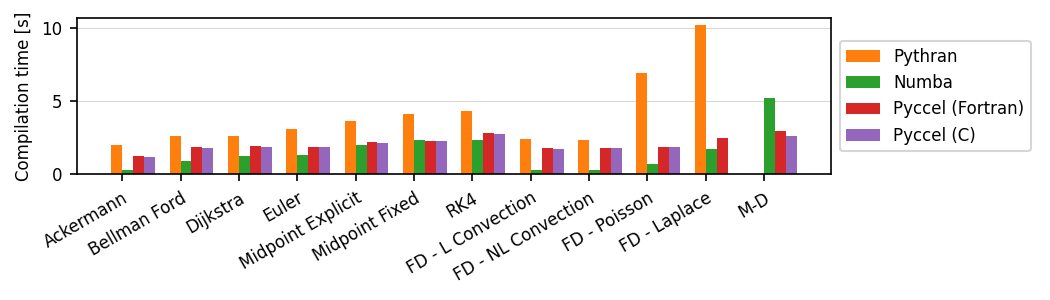
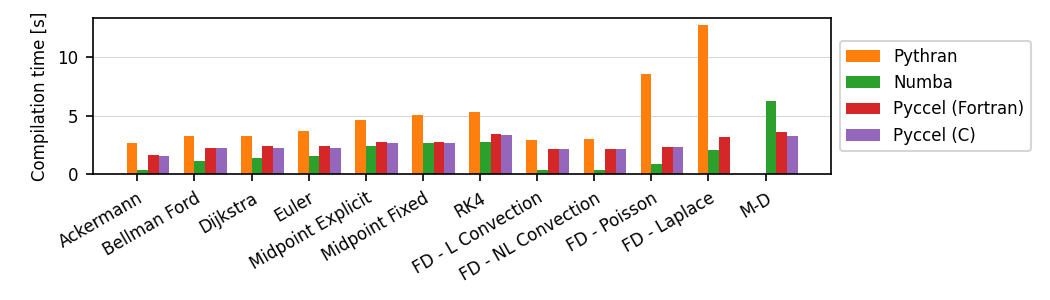
Update performance comparison

Changed region(s): [[0.0, 0.03, 0.7924, 0.6], [0.0305, 0.63, 0.7314, 0.93]]

diff --git a/version_specific_results/devel_performance_310.md b/version_specific_results/devel_performance_310.md
@@ -1,32 +1,32 @@
-### Performance Comparison (as of Tue Dec  6 23:59:49 UTC 2022)
+### Performance Comparison (as of Thu Dec  8 10:20:12 UTC 2022)
 ## Compilation time
 Algorithm                 | python                    | pythran                   | numba                     | pyccel                    | pyccel_c                 
 ------------------------- | ------------------------- | ------------------------- | ------------------------- | ------------------------- | -------------------------
-Ackermann                 | -                         | 2.02                      | 0.33                      | 1.26                      | 1.21                     
-Bellman Ford              | -                         | 2.64                      | 0.94                      | 1.89                      | 1.81                     
-Dijkstra                  | -                         | 2.63                      | 1.25                      | 1.97                      | 1.87                     
-Euler                     | -                         | 3.09                      | 1.30                      | 1.89                      | 1.84                     
-Midpoint Explicit         | -                         | 3.67                      | 1.99                      | 2.22                      | 2.17                     
-Midpoint Fixed            | -                         | 4.15                      | 2.33                      | 2.31                      | 2.26                     
-RK4                       | -                         | 4.32                      | 2.37                      | 2.85                      | 2.74                     
-FD - L Convection         | -                         | 2.40                      | 0.31                      | 1.78                      | 1.77                     
-FD - NL Convection        | -                         | 2.37                      | 0.31                      | 1.79                      | 1.79                     
-FD - Poisson              | -                         | 6.93                      | 0.74                      | 1.87                      | 1.86                     
-FD - Laplace              | -                         | 10.17                     | 1.72                      | 2.49                      | -                        
-M-D                       | -                         | -                         | 5.23                      | 2.94                      | 2.62                     
+Ackermann                 | -                         | 2.69                      | 0.42                      | 1.68                      | 1.53                     
+Bellman Ford              | -                         | 3.28                      | 1.13                      | 2.29                      | 2.25                     
+Dijkstra                  | -                         | 3.25                      | 1.44                      | 2.42                      | 2.26                     
+Euler                     | -                         | 3.73                      | 1.58                      | 2.43                      | 2.27                     
+Midpoint Explicit         | -                         | 4.61                      | 2.44                      | 2.76                      | 2.67                     
+Midpoint Fixed            | -                         | 5.07                      | 2.68                      | 2.78                      | 2.72                     
+RK4                       | -                         | 5.36                      | 2.78                      | 3.46                      | 3.32                     
+FD - L Convection         | -                         | 2.96                      | 0.37                      | 2.20                      | 2.18                     
+FD - NL Convection        | -                         | 2.98                      | 0.40                      | 2.21                      | 2.18                     
+FD - Poisson              | -                         | 8.54                      | 0.90                      | 2.34                      | 2.37                     
+FD - Laplace              | -                         | 12.69                     | 2.08                      | 3.21                      | -                        
+M-D                       | -                         | -                         | 6.24                      | 3.61                      | 3.25                     
 
 ## Execution time
 Algorithm                 | python                    | pythran                   | numba                     | pyccel                    | pyccel_c                 
 ------------------------- | ------------------------- | ------------------------- | ------------------------- | ------------------------- | -------------------------
-Ackermann (ms)            | 391.00                    | 9.70                      | 32.20                     | 3.32                      | 3.28                     
-Bellman Ford (ns)         | 56600.00                  | 346.00                    | 700.00                    | 216.00                    | 480.00                   
-Dijkstra (ns)             | 29400.00                  | 319.00                    | 500.00                    | 229.00                    | 460.00                   
-Euler (ms)                | 51.10                     | 0.63                      | 1.22                      | 0.14                      | 2.53                     
-Midpoint Explicit (ms)    | 103.00                    | 1.44                      | 3.10                      | 0.24                      | 4.56                     
-Midpoint Fixed (ms)       | 519.00                    | 8.72                      | 17.60                     | 0.95                      | 20.00                    
-RK4 (ms)                  | 256.00                    | 2.07                      | 6.44                      | 0.27                      | 5.45                     
-FD - L Convection (ms)    | 1930.00                   | 1.81                      | 9.07                      | 1.82                      | 1.56                     
-FD - NL Convection (ms)   | 2420.00                   | 1.93                      | 9.39                      | 1.76                      | 1.56                     
-FD - Poisson (ms)         | 4270.00                   | 2.35                      | 10.90                     | 3.95                      | 2.06                     
-FD - Laplace (\textmu s)  | 43.20                     | 2.45                      | 8440.00                   | 2.07                      | -                        
-M-D (ms)                  | 50900.00                  | -                         | 230.00                    | 302.00                    | 304.00                   
+Ackermann (ms)            | 444.00                    | 4.60                      | 22.00                     | 2.67                      | 2.88                     
+Bellman Ford (ns)         | 71800.00                  | 452.00                    | 900.00                    | 318.00                    | 565.00                   
+Dijkstra (ns)             | 34800.00                  | 370.00                    | 600.00                    | 308.00                    | 549.00                   
+Euler (ms)                | 54.50                     | 0.83                      | 1.32                      | 0.16                      | 3.48                     
+Midpoint Explicit (ms)    | 116.00                    | 1.80                      | 3.42                      | 0.27                      | 6.19                     
+Midpoint Fixed (ms)       | 566.00                    | 11.30                     | 18.30                     | 1.10                      | 27.20                    
+RK4 (ms)                  | 274.00                    | 2.30                      | 6.69                      | 0.32                      | 7.34                     
+FD - L Convection (ms)    | 2480.00                   | 2.01                      | 11.10                     | 1.81                      | 2.02                     
+FD - NL Convection (ms)   | 3090.00                   | 2.09                      | 11.10                     | 1.73                      | 1.97                     
+FD - Poisson (ms)         | 5090.00                   | 2.43                      | 12.50                     | 4.66                      | 2.11                     
+FD - Laplace (\textmu s)  | 52.00                     | 2.93                      | 9930.00                   | 2.53                      | -                        
+M-D (ms)                  | 56600.00                  | -                         | 260.00                    | 324.00                    | 325.00                   
